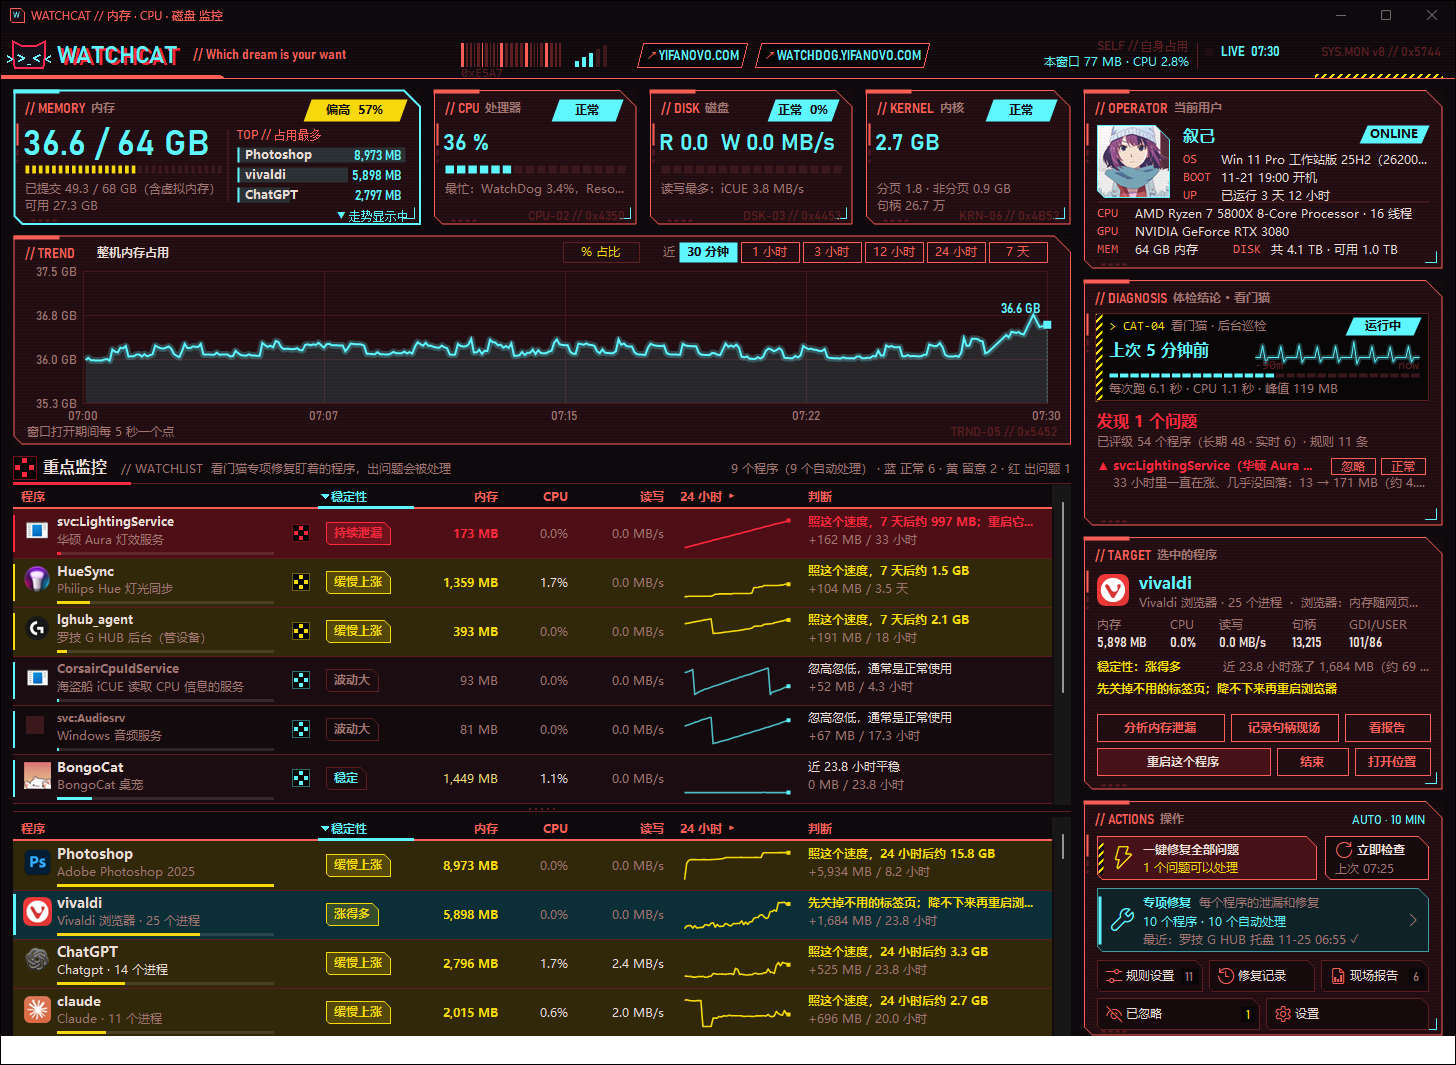
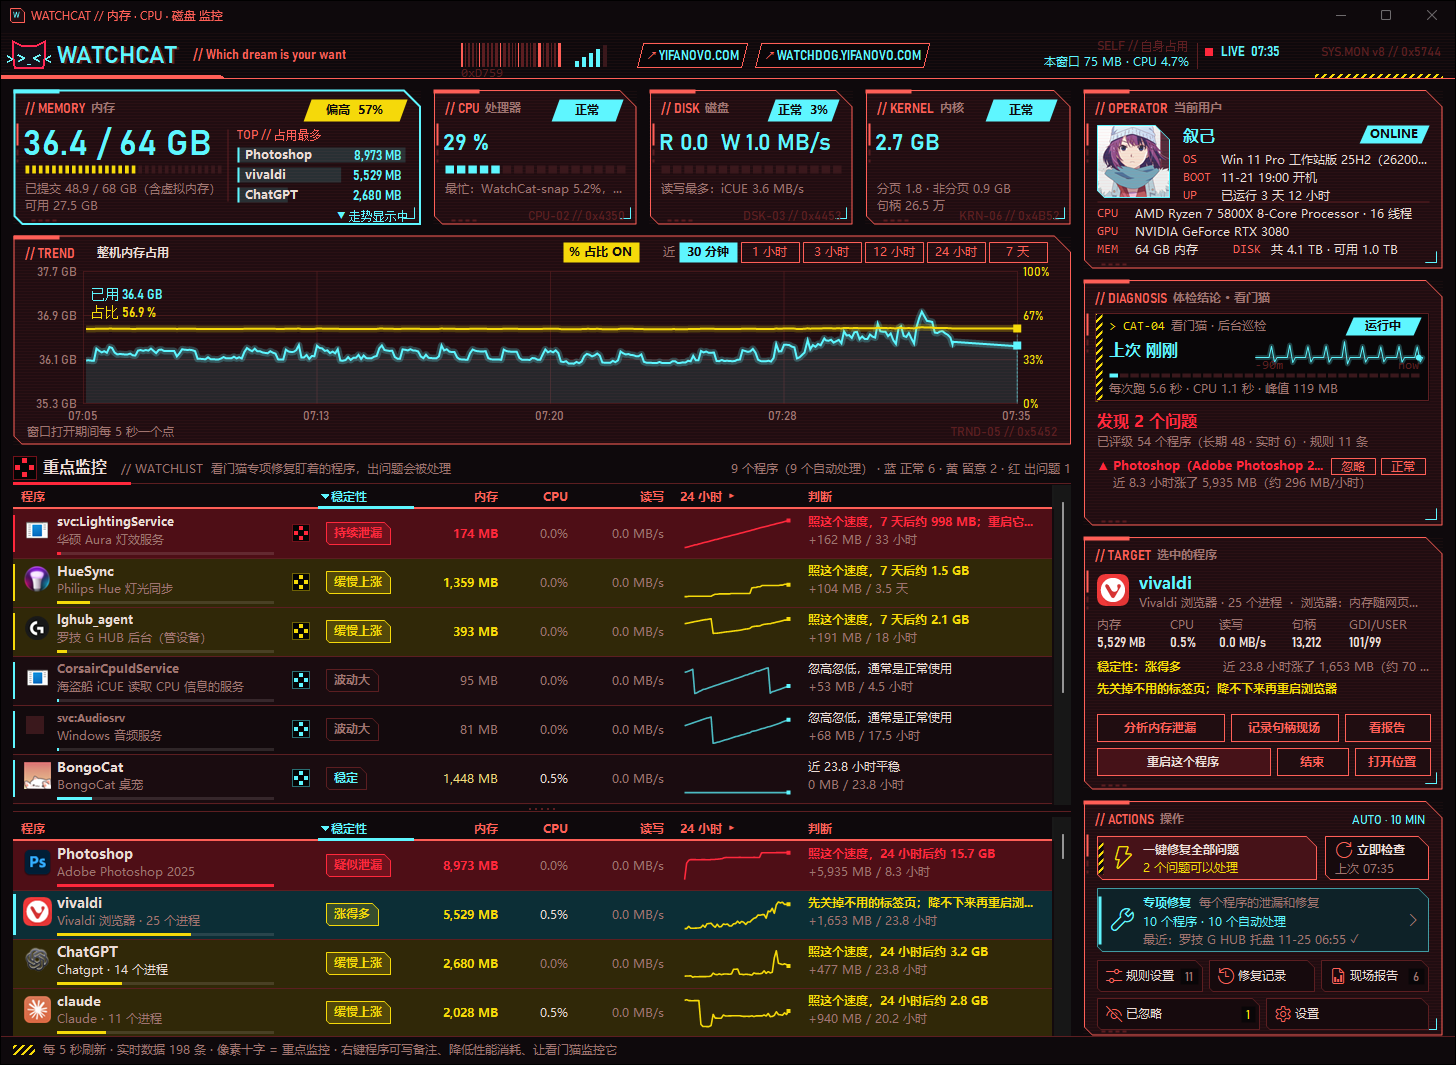
README: retaken theme screenshots with memory % line, add 专项修复 page; 看板娘 → 小助手 (README, settings, pet window title)

diff --git a/src/Monitor.Settings.cs b/src/Monitor.Settings.cs
@@ -85,7 +85,7 @@ namespace WatchDog
             groups.Add(new KeyValuePair<string[], List<SetRow>>(new[] { "外观", "切换后立即生效" }, new List<SetRow> {
                 new SetRow { Kind = "theme", Title = "界面主题", Sub = () => Theme.Name + "：" + Theme.Desc },
             }));
-            groups.Add(new KeyValuePair<string[], List<SetRow>>(new[] { "看板娘 Fegmi", "站在主窗口右边，发现问题时会说出来；可以拖动她换位置，右键有菜单" }, new List<SetRow> {
+            groups.Add(new KeyValuePair<string[], List<SetRow>>(new[] { "小助手 Fegmi", "站在主窗口右边，发现问题时会说出来；可以拖动她换位置，右键有菜单" }, new List<SetRow> {
                 new SetRow { Kind = "toggle", Title = "召唤 Fegmi", Sub = () => "关掉后她会去休息，数据照常记录", Get = () => petOn,
                     Toggle = () => { bool on = !petOn; if (pet != null) SetPetOn(on); else { petOn = on; WriteSetting("pet", on); } say(on ? "Fegmi 来了～" : "Fegmi 去休息了（数据照常记录）"); } },
                 new SetRow { Kind = "size", Title = "Fegmi 的大小", Sub = () => "现在 " + petScale.ToString("0.0") + " 倍（1.0 = 主窗口高度的 60%）" },

diff --git a/src/Monitor.Pet.cs b/src/Monitor.Pet.cs
@@ -411,7 +411,7 @@ namespace WatchDog
         {
             if (selfTest || !LoadPetParts()) return;
             LoadPetSettings();
-            pet = new LayeredWindow("Fegmi · WatchCat 看板娘"); pet.Owner = this; pet.Cursor = Cursors.Hand;
+            pet = new LayeredWindow("Fegmi · WatchCat 小助手"); pet.Owner = this; pet.Cursor = Cursors.Hand;
             bubble = new LayeredWindow("Fegmi 说的话"); bubble.Owner = this; bubble.Cursor = Cursors.Hand;
             petTimer = new Timer(); petTimer.Interval = petClip ? 40 : 100;   // 序列帧每秒 12 帧，定时器要比它快才不丢帧
             petTimer.Tick += delegate { PetTick(); };

diff --git a/README.md b/README.md
@@ -2,7 +2,7 @@
 
 <h1 align="center">WatchCat · 看门猫</h1>
 
-<p align="center">Windows 内存泄漏体检与修复 · 赛博朋克风 · 带看板娘 Fegmi</p>
+<p align="center">Windows 内存泄漏体检与修复 · 赛博朋克风 · 带小助手 Fegmi</p>
 
 ![WatchCat 主界面](docs/main-capricorn.png)
 
@@ -16,7 +16,13 @@
 - **问题报告**：不知道怎么处理的程序，一键生成报告发给开发者。
 - **轻量**：自身约 60 MB 内存，平时几乎不占 CPU。
 
-## 看板娘 Fegmi
+## 专项修复
+
+已知会漏内存的程序，每个都有一张卡片：现在多大、离上限还有多远、为什么会涨、最近一次处理的结果，可以立即修复或改设置。
+
+![专项修复](docs/fixes.png)
+
+## 小助手 Fegmi
 
 站在主窗口右边的看门猫值班员。平时待机，打招呼时挥手，发现问题时担心地说出来，一切正常时开心。可以拖动、调大小，设置里可以让她休息。
 
